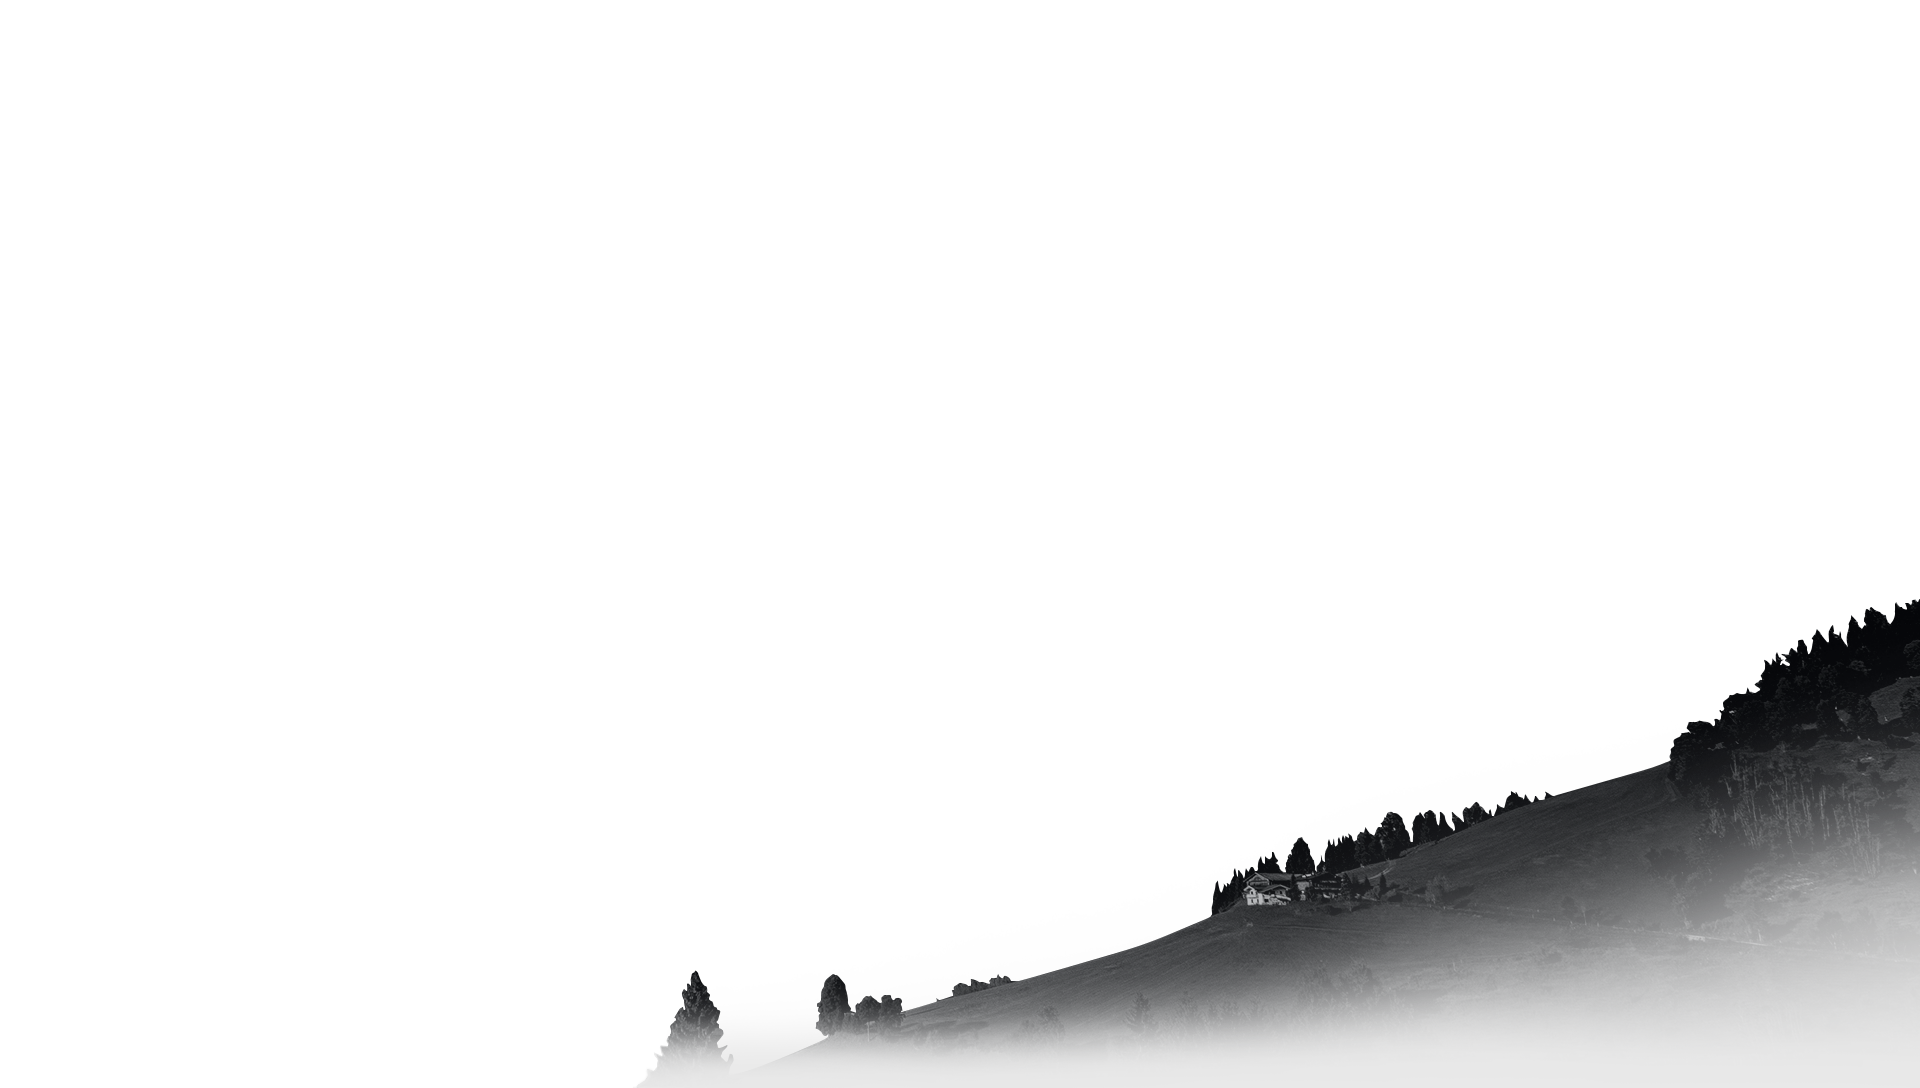
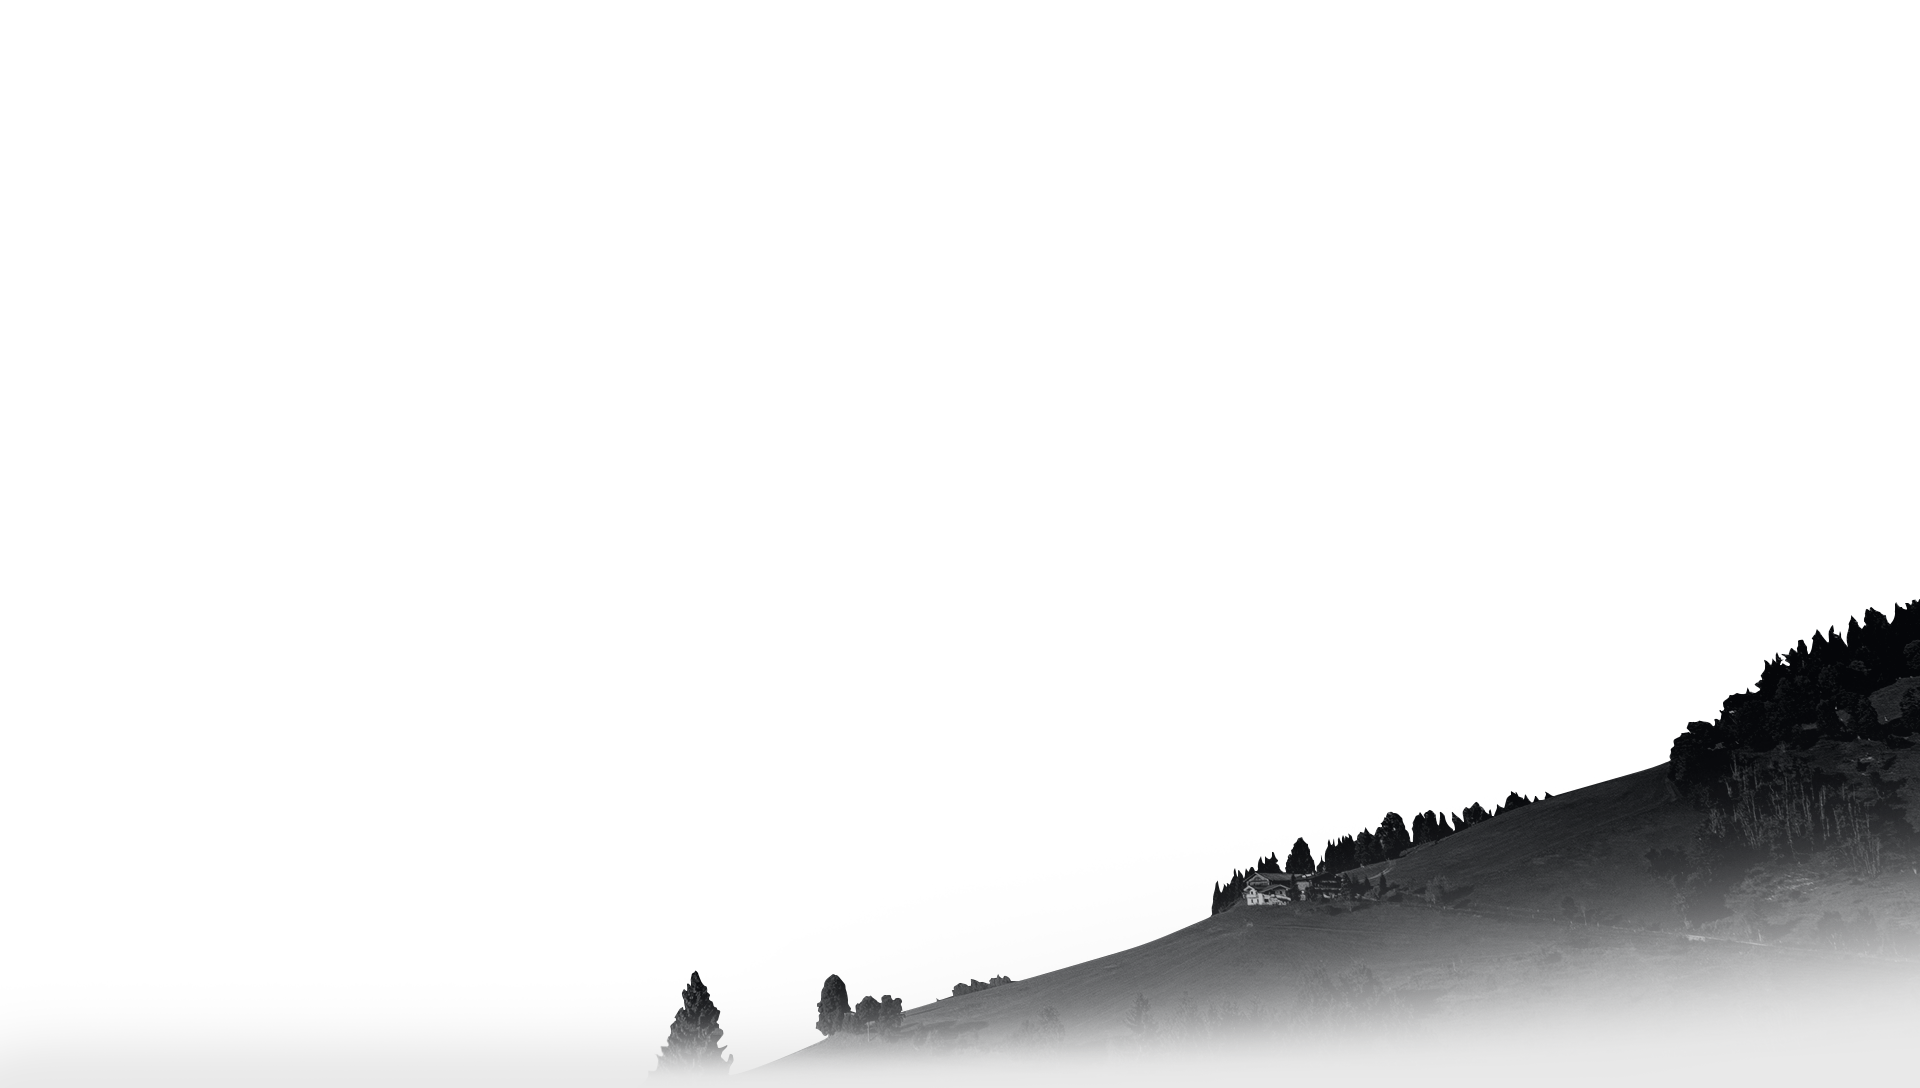
fixes

Changed region(s): [[0.8438, 0.6562, 1.0, 0.875], [0.3438, 0.9375, 0.375, 0.9688]]

diff --git a/app/components/lead/lead.js b/app/components/lead/lead.js
@@ -1,10 +1,47 @@
 /* eslint-disable no-new */
 import SmoothParallax from 'smooth-parallax';
 
+// const $ = window.$;
+
 export default function parallax() {
   SmoothParallax.init({
     basePercentageOn: 'pageScroll',
   });
+
+  function castParallax() {
+    window.addEventListener('scroll', () => {
+      const top = window.pageYOffset;
+      const layers = document.getElementsByClassName('parallax');
+      let layer;
+      let speed;
+      for (let i = 0; i < layers.length; i += 1) {
+        layer = layers[i];
+        speed = layer.getAttribute('data-speed');
+        const yPos = -((top * speed) / 100);
+        layer.setAttribute('style', `transform: translate3d(0px, ${yPos}px, 0px)`);
+      }
+    });
+  }
+
+  // function dispelParallax() {
+  //   $('#nonparallax').css('display', 'block');
+  //   $('#parallax').css('display', 'none');
+  // }
+
+  function startSite() {
+    // const platform = navigator.platform.toLowerCase();
+    castParallax();
+
+    // if (platform.indexOf('ipad') !== -1 || platform.indexOf('iphone') !== -1) {
+    //   dispelParallax();
+    // } else if (platform.indexOf('win32') !== -1 || platform.indexOf('linux') !== -1) {
+    //   castParallax();
+    // } else {
+    //   castParallax();
+    // }
+  }
+
+  startSite();
 }
 
 /* eslint-enable no-new */

diff --git a/app/components/lead/lead.scss b/app/components/lead/lead.scss
@@ -39,11 +39,6 @@
 
       &1 {
         z-index: 5;
-        // transform: translateZ(0);
-      }
-
-      &0 {
-        z-index: 6;
 
         &::before {
           @include pseudo;
@@ -51,8 +46,9 @@
           width: 100%;
           height: 100vh;
           background-color: $color-bg;
-          top: calc(100% - 5px);
+          top: 100%;
           left: 0;
+          z-index: 1;
         }
       }
     }

diff --git a/app/blocks/card/card.scss b/app/blocks/card/card.scss
@@ -17,7 +17,7 @@
     @include rule(right, (xl: 2.71vw, lg: 3.81vw, md: 6.2vw));
 
     position: absolute;
-    color: $color-white;
+    color: $color-bg;
     z-index: 2;
     margin: 0;
     padding: 0;
@@ -41,6 +41,6 @@
 
     @include fill-img;
 
-    min-height: 120%;
+    min-height: 140%;
   }
 }
